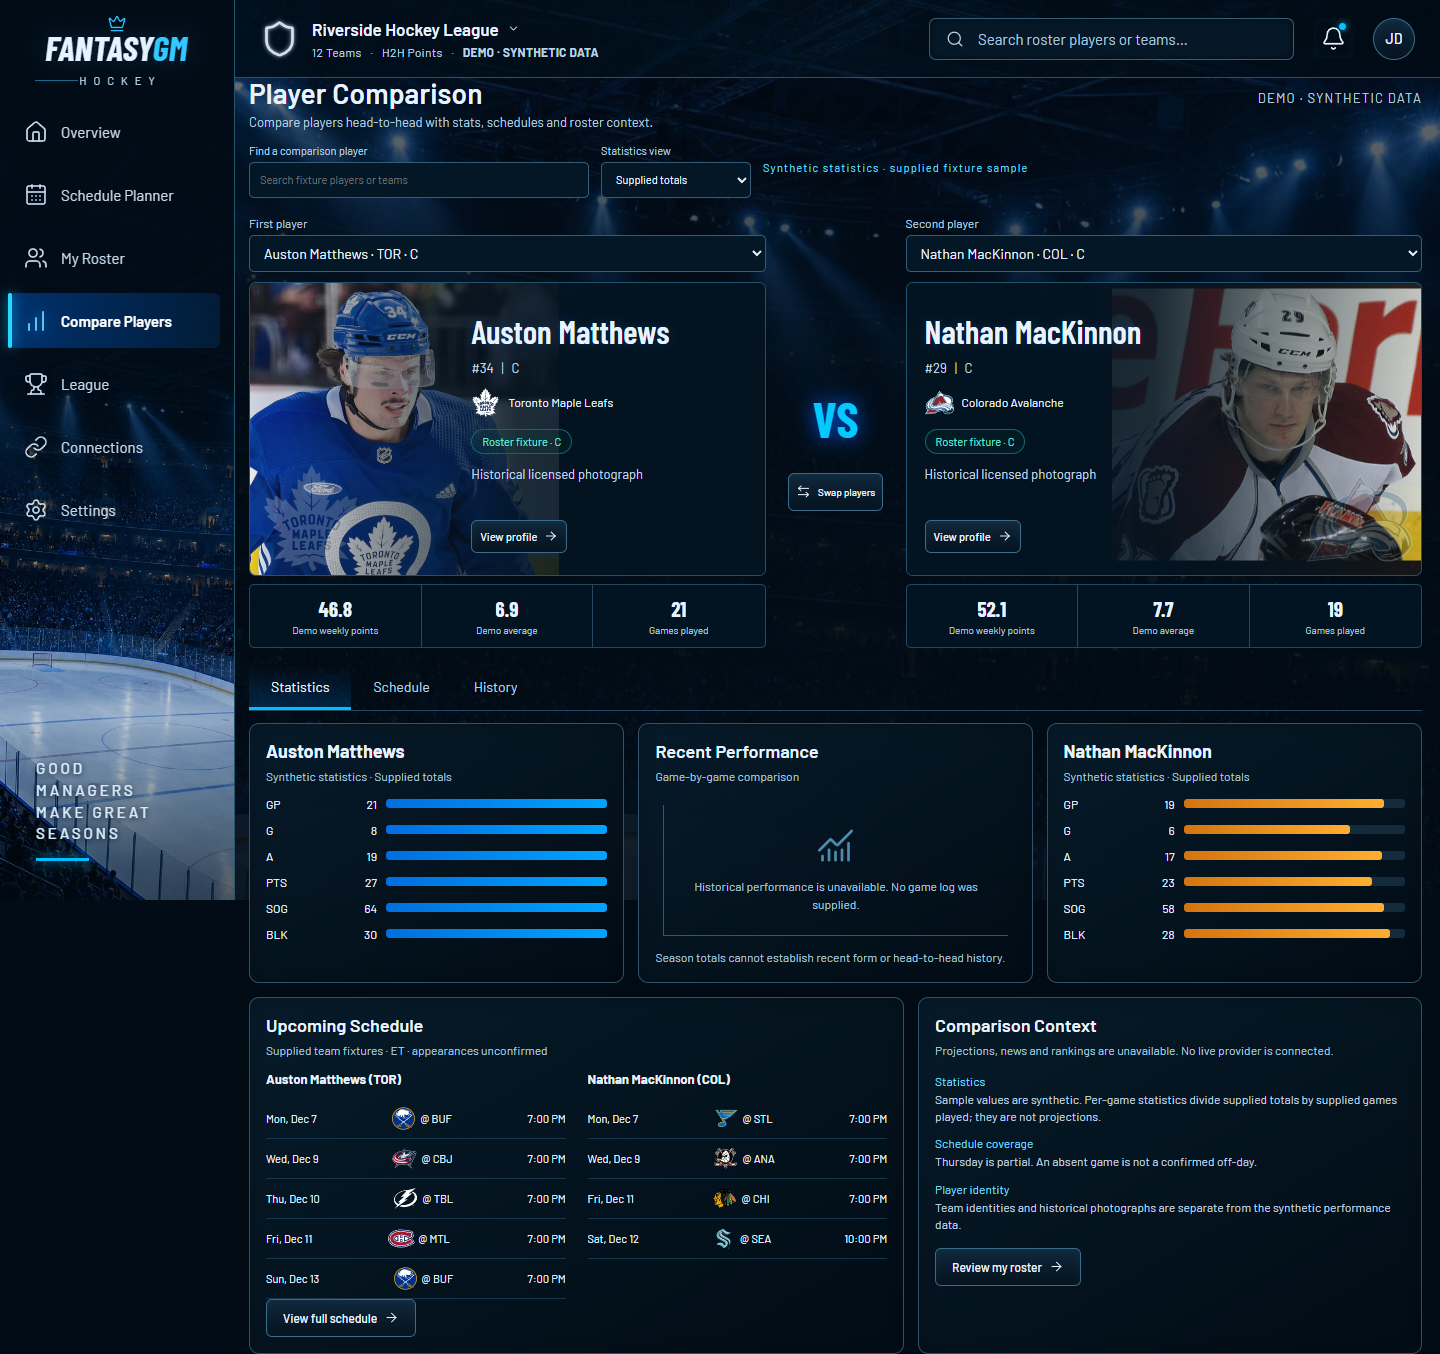
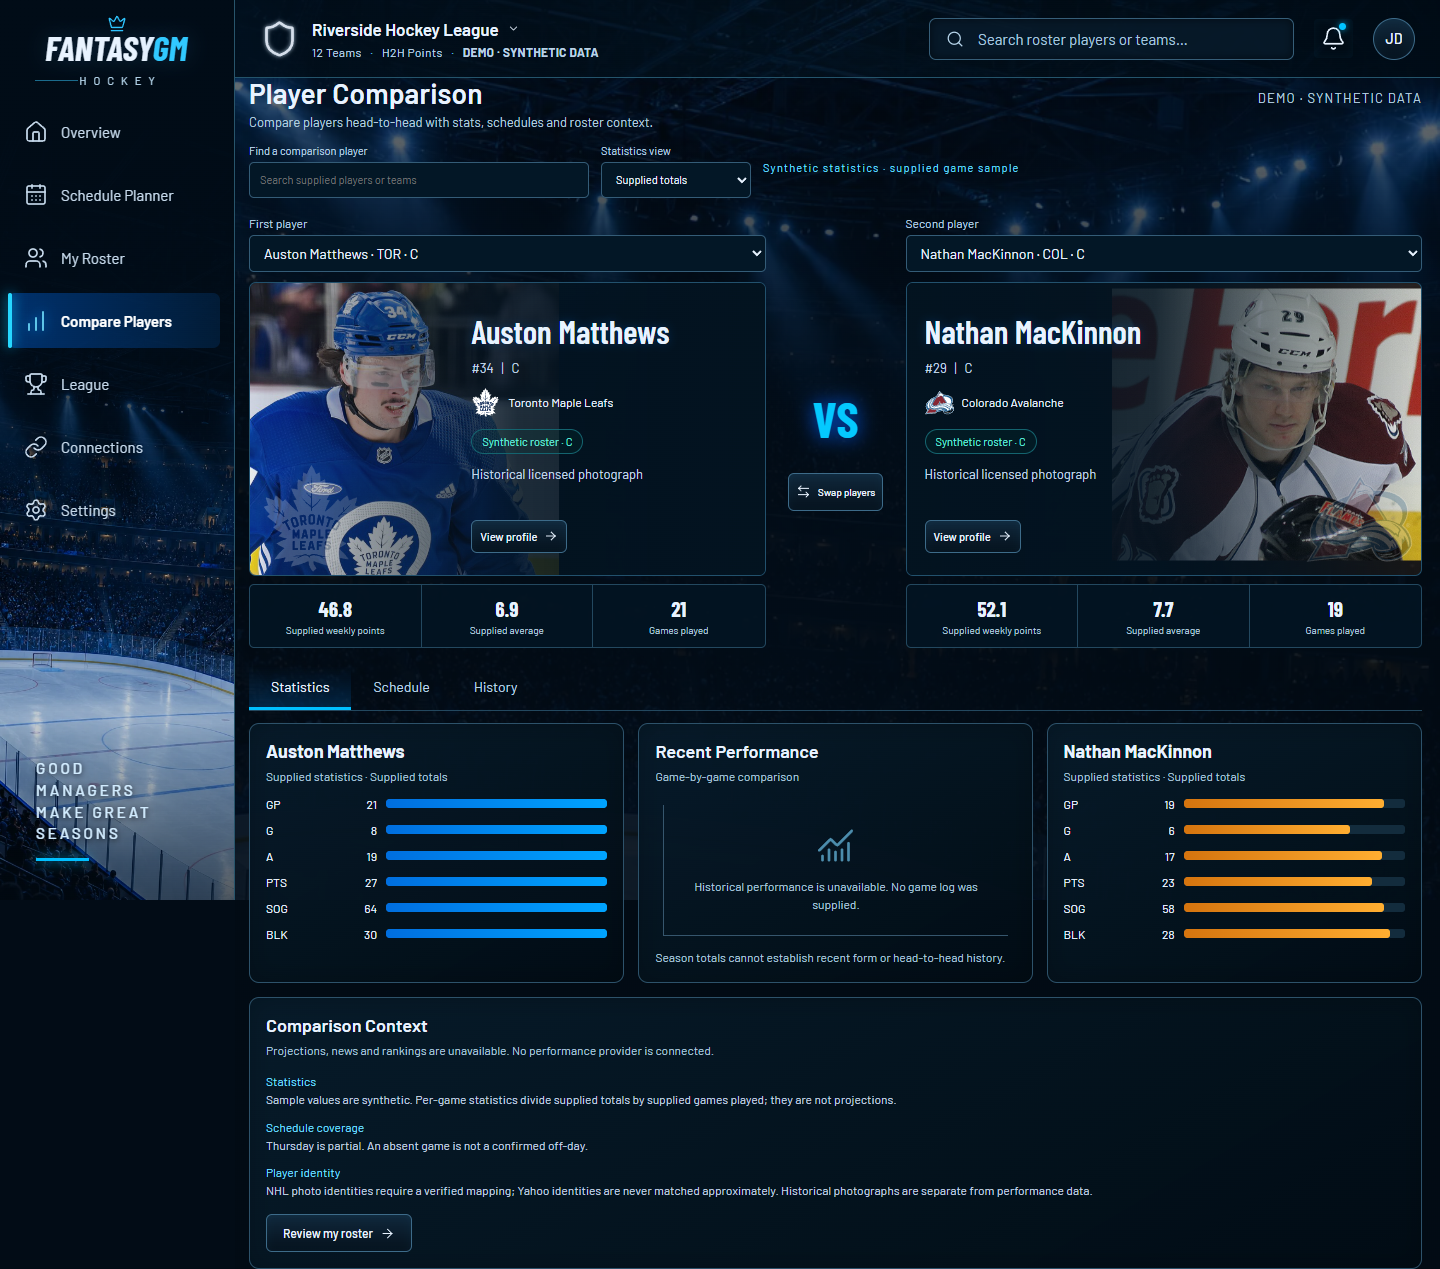
test(comparison): record reviewed visual baselines

diff --git a/docs/ci-quality-gates.md b/docs/ci-quality-gates.md
@@ -88,6 +88,20 @@ scrolling, since page-overflow and accessibility checks alone missed that defect
 
 ## Advisory dependency audits
 
+### Two-player weekly game comparison visual review
+
+The four Comparison baselines were reviewed at 1672, 1440, 768 and 390 pixels
+after the original four images first matched in the same local environment.
+The intentional changes replace the duplicate Upcoming Schedule panel with the
+full-width Comparison Context panel and use games/synthetic-roster wording.
+The new Schedule tab was separately captured and inspected at all four sizes;
+its synthetic browser cases check aligned date rows, mobile stacking, readable
+content, keyboard access, accessibility and cleared navigation context.
+Review environment: Windows 10.0.26200, Chrome 155.0.8059.80, Node 22.15.0,
+Playwright 1.64.1 and bundled fonts 5.3.0. Only the four Comparison images were
+replaced after inspecting actual/expected differences. The other 28 images,
+the 0.005 tolerance and all blocking checks remain unchanged.
+
 Linux Python exports all locked dependency groups excluding the local project,
 then runs isolated pinned `pip-audit==2.10.1` with dependency resolution/install
 disabled. npm audits the existing locked runtime and development dependency tree.
